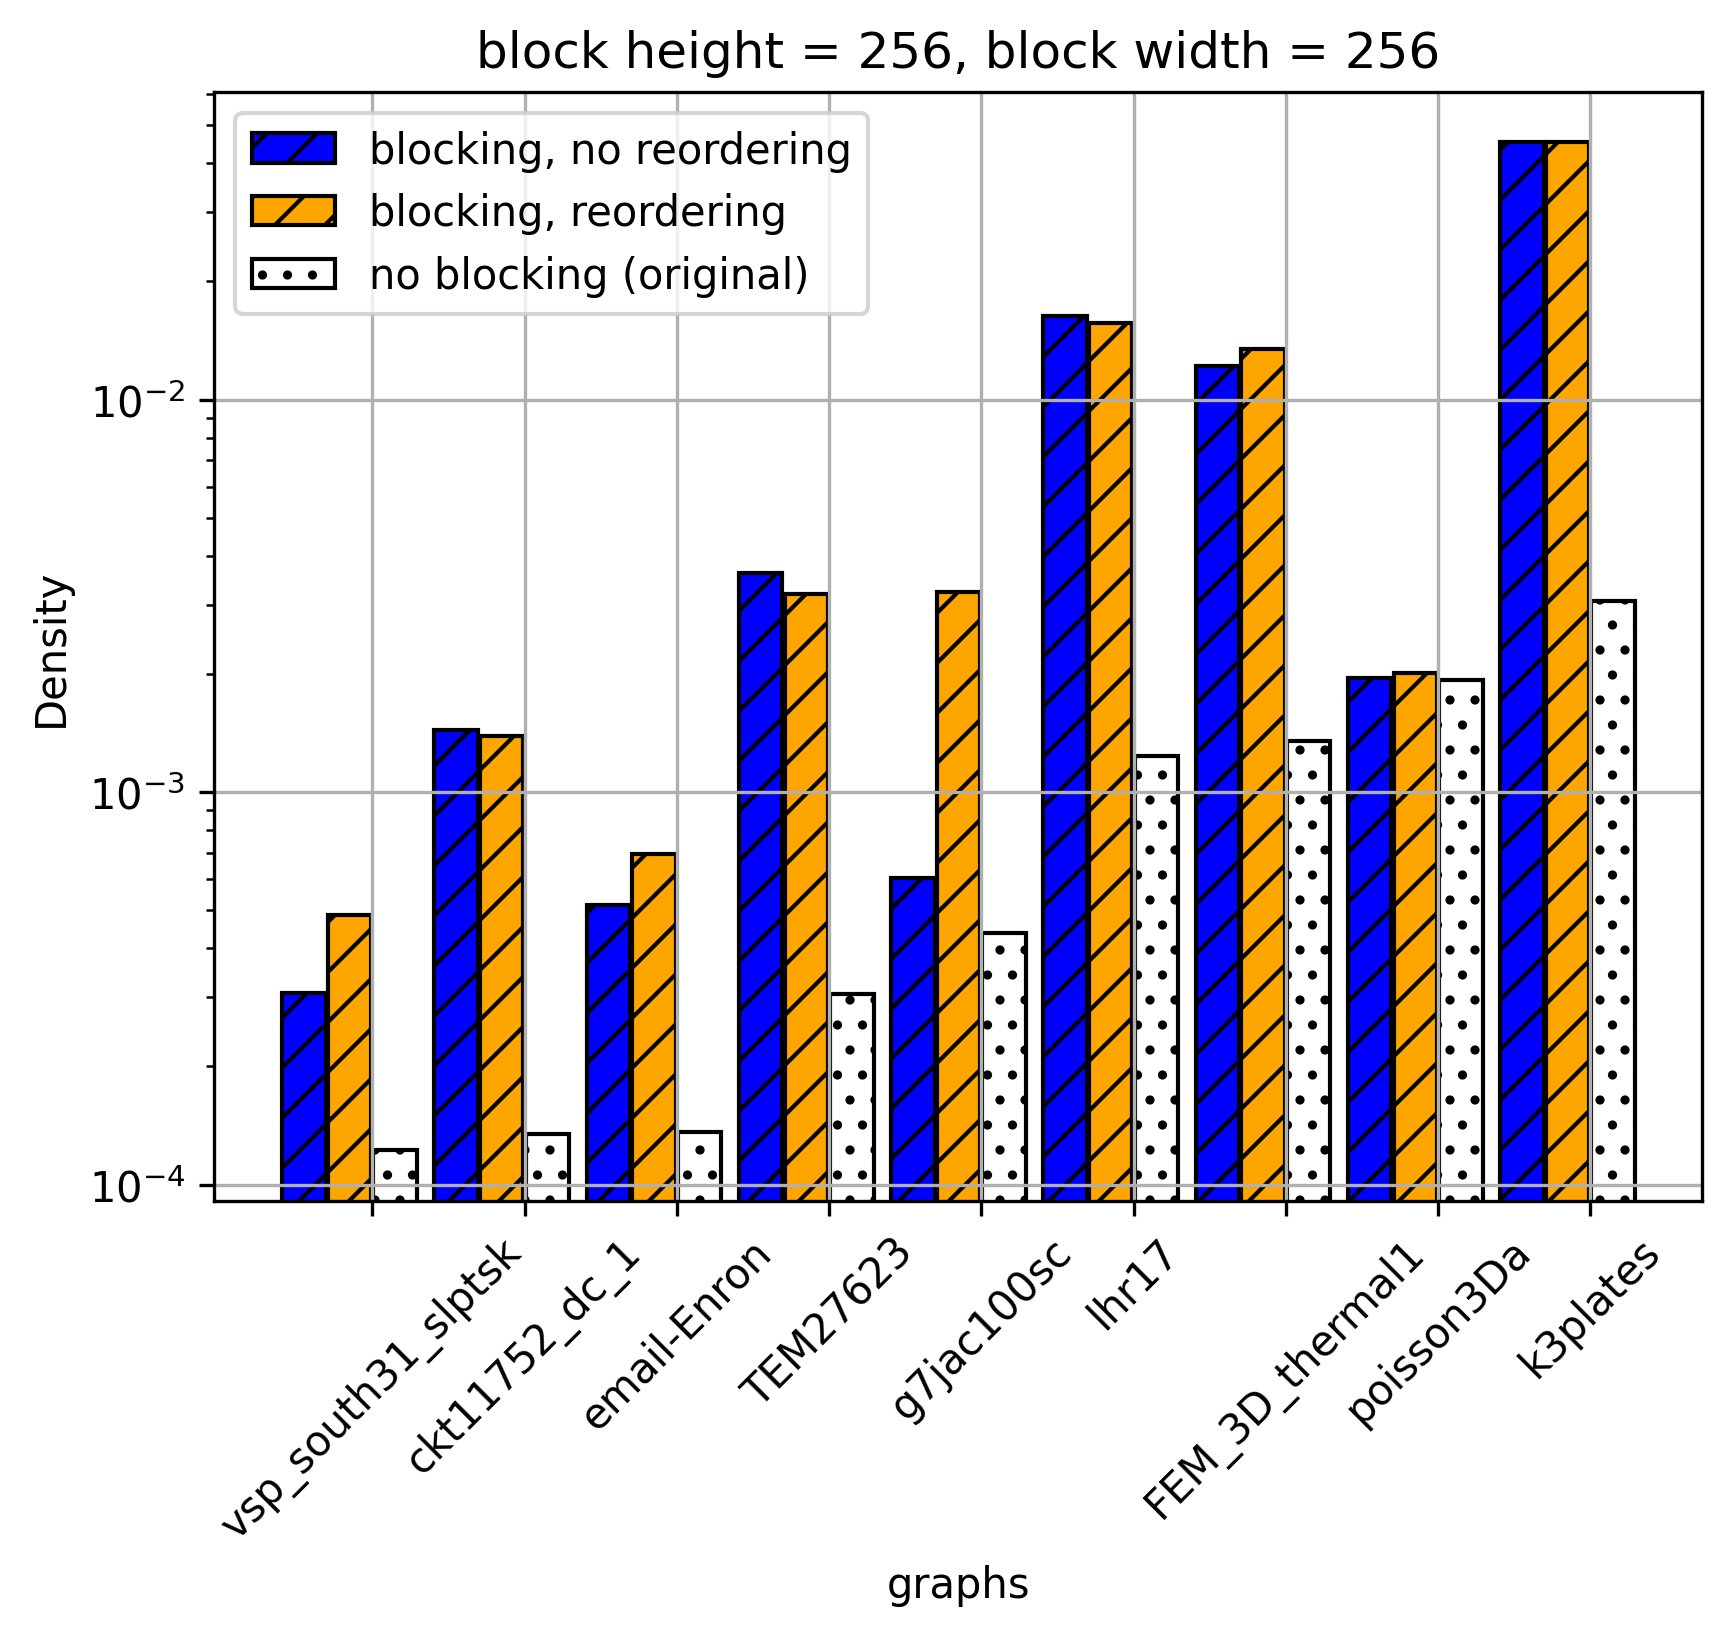
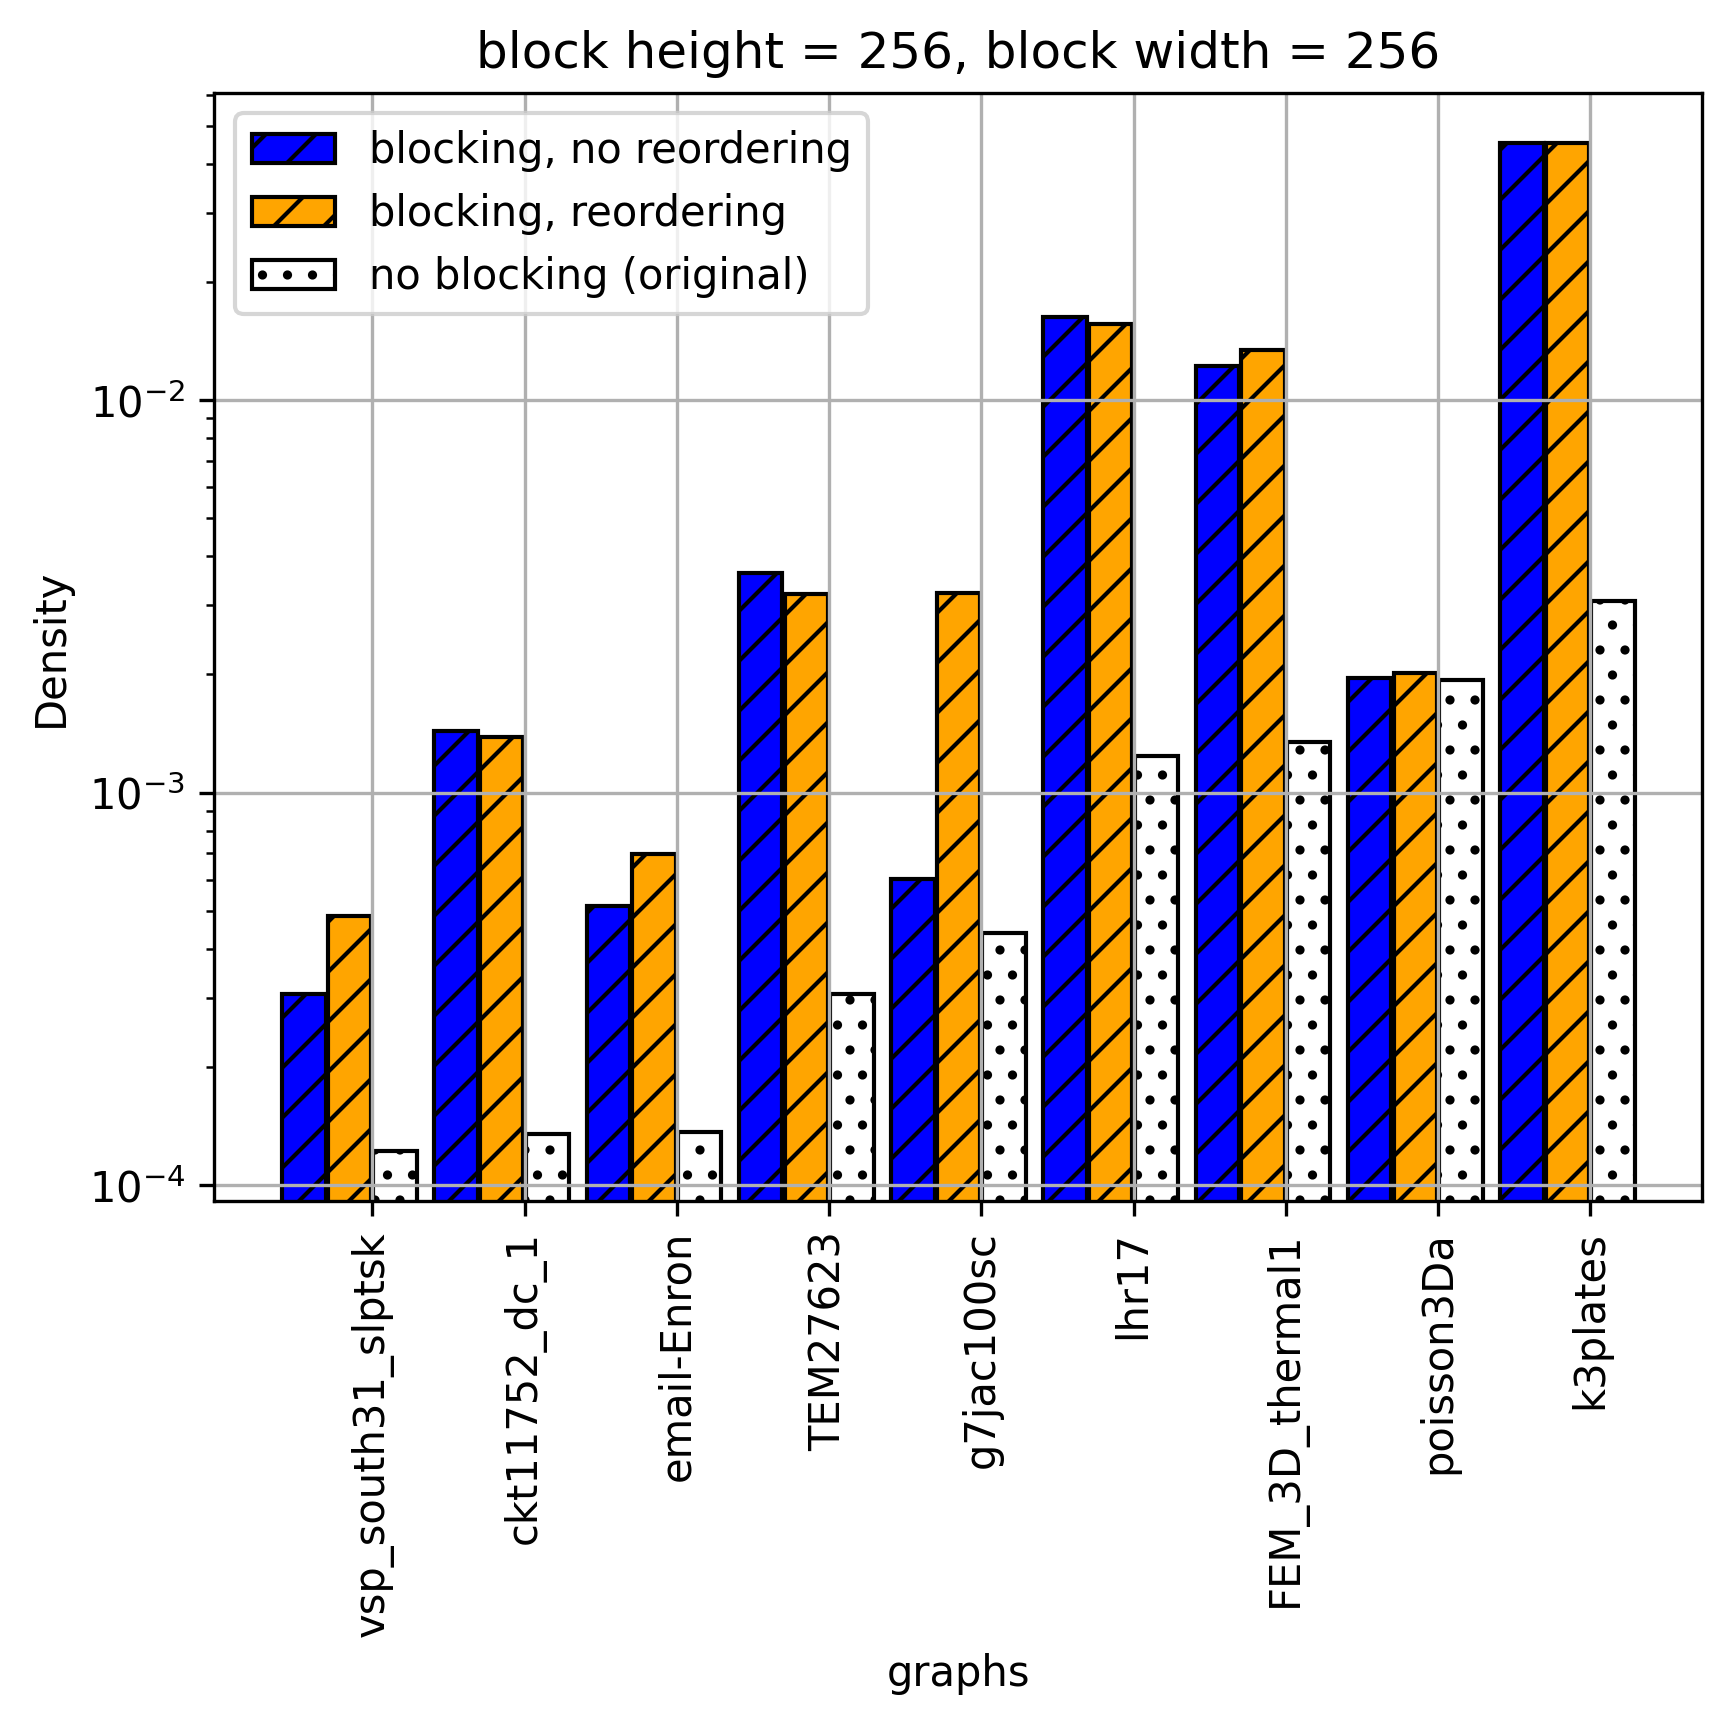
minor fixes

diff --git a/src/scripts/multiplication_barplots.py b/src/scripts/multiplication_barplots.py
@@ -119,14 +119,14 @@ def barplot(x_labels, x_ax_label, ys, y_styles = {} , y_ax_label = "", savename 
 
 
 exps = {}
-exps["VBR-reord"] = (6,5)
 exps["VBR-no-reord"] = (6,2)
+exps["VBR-reord"] = (6,5)
 exps["BELLPACK-no-reord"] = (3,2)
 exps["CSR"] = (2,3)
 exps["GEMM"] = (1,3)
 
 
-def make_barplot(df, image_folder,B_cols, row_block_size, col_block_size):
+def make_barplot(df, image_folder,B_cols, row_block_size, col_block_size, variable = "speed-vs-cusparse"):
     tmp_df = df.loc[(df["col_block_size"]==col_block_size) & (df["row_block_size"] == row_block_size) & (df["b_cols"] == B_cols)]
     matrices_names = [val.split("/")[-1].split(".")[0] for val in tmp_df["matrix"].unique()]
 
@@ -137,13 +137,13 @@ def make_barplot(df, image_folder,B_cols, row_block_size, col_block_size):
     for matrix in tmp_df["matrix"].unique():
         for exp_name in data_lines.keys():
             M_algo, B_algo = exps[exp_name]
-            values = tmp_df.loc[(tmp_df["matrix"] == matrix) & (tmp_df["multiplication_algo"] == M_algo) & (tmp_df["blocking_algo"] == B_algo)]["Speed-vs-cusparse"].values
+            values = tmp_df.loc[(tmp_df["matrix"] == matrix) & (tmp_df["multiplication_algo"] == M_algo) & (tmp_df["blocking_algo"] == B_algo)][variable].values
             if len(values) == 0:
                 data_lines[exp_name].append( 0 )
             else:
                 data_lines[exp_name].append( values[0] )
 
-    savename = f"{image_folder}/SpMM_time_barplot_{row_block_size}_{col_block_size}_{B_cols}"
+    savename = f"{image_folder}/SpMM_barplot_{variable}_{row_block_size}_{col_block_size}_{B_cols}"
 
     styles = [global_exp_dict[exp] for exp in data_lines.keys()]
 
@@ -151,13 +151,13 @@ def make_barplot(df, image_folder,B_cols, row_block_size, col_block_size):
                 x_labels = matrices_names,
                 x_ax_label="graphs",
                 ys=data_lines.values(),
-                y_labels=data_lines.keys(),
                 y_styles = styles,
-                y_ax_label = "Speed-vs-cusparse", 
+                y_ax_label = global_label_dict[variable], 
                 savename = savename)
 
-def make_barplot_best(df, image_folder,B_cols):
+def make_barplot_best(df, image_folder,B_cols, variable = "speed-vs-cusparse"):
     tmp_df = df.loc[df["b_cols"] == B_cols]
+    tmp_df = tmp_df.loc[df["row_block_size"] == df["col_block_size"]]
     tmp_df = tmp_df.loc[tmp_df.groupby(["matrix","blocking_algo","multiplication_algo"])["avg_time_multiply"].idxmin()]
     tmp_df.sort_values(by=['density','matrix'], inplace=True)
     matrices_names = [val.split("/")[-1].split(".")[0] for val in tmp_df["matrix"].unique()]
@@ -167,7 +167,7 @@ def make_barplot_best(df, image_folder,B_cols):
     for matrix in tmp_df["matrix"].unique():
         for exp_name in data_lines.keys():
             M_algo, B_algo = exps[exp_name]
-            values = tmp_df.loc[(tmp_df["matrix"] == matrix) & (tmp_df["multiplication_algo"] == M_algo) & (tmp_df["blocking_algo"] == B_algo)]["Speed-vs-cusparse"].values
+            values = tmp_df.loc[(tmp_df["matrix"] == matrix) & (tmp_df["multiplication_algo"] == M_algo) & (tmp_df["blocking_algo"] == B_algo)][variable].values
             if len(values) == 0:
                 data_lines[exp_name].append( 0 )
             else:
@@ -182,12 +182,12 @@ def make_barplot_best(df, image_folder,B_cols):
                 x_ax_label="graphs",
                 ys=data_lines.values(),
                 y_styles = styles,
-                y_ax_label = "Speed-vs-cusparse", 
+                y_ax_label = global_label_dict[variable], 
                 savename = savename)
 
 
 
-def make_heatmap(df,image_folder,B_cols,exp_name, colormap_variable = "Speed-vs-cusparse"):     
+def make_heatmap(df,image_folder,B_cols,exp_name, colormap_variable = "speed-vs-cusparse"):     
     M_algo, B_algo = exps[exp_name]
     heatmap_df = df[(df["multiplication_algo"]==M_algo) & (df["blocking_algo"]== B_algo) & (df["b_cols"] == B_cols)]
     table = heatmap_df.pivot_table(index="row_block_size", columns="col_block_size", values=colormap_variable, aggfunc='mean')
@@ -221,7 +221,7 @@ df_VBR_no_reord = df[(df["multiplication_algo"] == 6) & (df["blocking_algo"] == 
 df = pd.merge(df,df_VBR_no_reord, how = "left",on = ["matrix","b_cols","row_block_size","col_block_size"], suffixes=('','_VBR_no_reord') )
 
 df["speed-vs-no-reord"] = df["avg_time_multiply_VBR_no_reord"]/df["avg_time_multiply"]
-df["Speed-vs-cusparse"] = df["avg_time_multiply_CSR"]/df["avg_time_multiply"]
+df["speed-vs-cusparse"] = df["avg_time_multiply_CSR"]/df["avg_time_multiply"]
 df["time-per-block"] = df["avg_time_multiply"]/df["VBR_nzblocks_count"]
 df["time-per-area"] = df["avg_time_multiply"]/df["VBR_nzcount"]
 df["time-per-true-nonzero"] = df["avg_time_multiply"]/df["nonzeros"]
@@ -246,7 +246,7 @@ for B_cols in df["b_cols"].unique():
     make_barplot_best(df, image_folder,B_cols)
     for row_block_size in (32,64,128,512,1024):
         for col_block_size in (32,64,128,512,1024):
-            #make_barplot(df, image_folder,B_cols, row_block_size,col_block_size)
+            make_barplot(df, image_folder,B_cols, row_block_size,col_block_size)
             1
 
 print("Making heatmaps")
@@ -254,8 +254,8 @@ for B_cols in df["b_cols"].unique():
         for exp_name in exps:
             try:
                 make_heatmap(df,image_folder,B_cols,exp_name, colormap_variable= "time-per-true-nonzero")
-                make_heatmap(df,image_folder,B_cols,exp_name, colormap_variable= "Speed-vs-cusparse")
-                make_heatmap(df,image_folder,B_cols,exp_name, colormap_variable= "Speed-vs-no-reord")
+                make_heatmap(df,image_folder,B_cols,exp_name, colormap_variable= "speed-vs-cusparse")
+                make_heatmap(df,image_folder,B_cols,exp_name, colormap_variable= "speed-vs-no-reord")
                 make_heatmap(df,image_folder,B_cols,exp_name, colormap_variable= "time-per-block")
                 make_heatmap(df,image_folder,B_cols,exp_name, colormap_variable= "time-per-area")
             except: 

diff --git a/src/cuda/cuda_utilities.cpp b/src/cuda/cuda_utilities.cpp
@@ -362,7 +362,8 @@ void cublas_fixed_blocks_multiply(const VBR& vbmatA, DataT* B, int B_cols, DataT
     cudaEventRecord(start, 0);
 
     //creates streams. Each block rows is assigned a different stream.
-
+    DataT* d_C_block;
+    intT jb;
     cublasSetStream(handle, streams[0]);               //each stream handles at most max_blocks_per_stream of block_rows    
     //loop through all blocks
     for(intT nzs = 0; nzs < max_blocks_in_row; nzs++ )      //loop horizontally through block rows
@@ -370,30 +371,29 @@ void cublas_fixed_blocks_multiply(const VBR& vbmatA, DataT* B, int B_cols, DataT
         for (intT ib = 0; ib < vbmatA.block_rows; ib++)
         {
             if (nzs >= vbmatA.nzcount[ib]) continue;
-            intT jb = *(jab_positions[ib] + nzs);
+            jb = *(jab_positions[ib] + nzs);
             const DataT* d_B_block = d_B + vbmatA.block_col_size*jb;    //access the vertical block of B that is going to be multiplied with blocks of A in block-row ib
 	        const DataT* d_A_block = mab_positions[ib] + nzs*block_area;           //access the block on d_A.
-            DataT* d_C_block = d_C + vbmatA.row_part[ib];                            //access the block on d_C.
+            d_C_block = d_C + vbmatA.row_part[ib];                            //access the block on d_C.
 
-            int k = vbmatA.block_col_size, m = B_cols, n = row_block_size;
-            int lda = row_block_size, ldb = B_rows, ldc = C_rows;
+//            int k = vbmatA.block_col_size, m = B_cols, n = row_block_size;
     
             cublasSetStream(handle, streams[ib%n_streams]);               //each stream handles at most max_blocks_per_stream of block_rows    
             //multiply the blocks, store result in d_C_block
             checkCudaErrors(
                 cublasGemmEx(
                     handle, CUBLAS_OP_N, CUBLAS_OP_N,
-                    m,n,k,                                               //m, n, k <-- block_A: m*k   block_B: k*n   block_C: m*n
+                    B_cols,row_block_size,vbmatA.block_col_size,                                               //m, n, k <-- block_A: m*k   block_B: k*n   block_C: m*n
                     &alpha,
                     d_A_block,                                          // blockA device pointer,
                     data_type_AB,                                       // blockA datatype
-                    lda,                                      // blockA leading dimension
+                    row_block_size,                                      // blockA leading dimension
                     d_B_block,                                          // blockB device pointer
                     data_type_AB,                                       // blockB datatype
-                    ldb,                                             // B leading dimension
+                    B_rows,                                             // B leading dimension
                     &beta,
                     d_C_block, data_type_C,                             // blockC device pointer, blockC type
-                    ldc,                                             // C leading dimension
+                    C_rows,                                             // C leading dimension
                     compute_type,                                       // compute_type
                     cuda_algo)
             );                                       

diff --git a/src/scripts/blocking_barplots.py b/src/scripts/blocking_barplots.py
@@ -20,7 +20,7 @@ label_dict = {
     "block_density" : "Blocked density",
     "density" : "Original density",
     "dense_amp" : "Density amplification (against unblocked)",
-    "relative_dense_amp" : "Density amplification (against natural blocking)",
+    "relative-dense-amp" : "Density amplification (against natural blocking)",
     "block ratio": "Shape (height / width)"
 }
 
@@ -91,7 +91,7 @@ def barplot(x_labels, x_ax_label, ys, y_labels, y_styles, y_ax_label, yscale = "
     plt.yscale(yscale)
     plt.grid("both")
     plt.title(f"block height = {row_block_size}, block width = {col_block_size}")
-    plt.xticks(range(len(x_labels)), x_labels, rotation=45)
+    plt.xticks(range(len(x_labels)), x_labels, rotation=90)
     plt.savefig(savename + ".png",  bbox_inches='tight', dpi = 300)
     plt.close()    
 
@@ -118,6 +118,13 @@ df["block_density"] = df["nonzeros"].values/df["VBR_nzcount"].values
 df["dense_amp"] = df["block_density"].values/df["density"].values
 df["block_area"] = df["row_block_size"].values*df["col_block_size"].values
 df["block ratio"] = df["row_block_size"].values/df["col_block_size"].values
+
+
+df_VBR_no_reord = df[df["blocking_algo"] == 2][["matrix","col_block_size","row_block_size","dense_amp"]]
+df = pd.merge(df,df_VBR_no_reord, how = "left",on = ["matrix","row_block_size","col_block_size"], suffixes=('','_VBR_no_reord') )
+df["relative-dense-amp"] = df["dense_amp_VBR_no_reord"]/df["dense_amp"]
+
+
 df.sort_values(by=['density','matrix'], inplace=True)
 
 #PREPARE HEATMAP FOR ALL BLOCK-SIZES
@@ -169,7 +176,7 @@ for blocking_algo in (2,5):
 
 
 x_var = "density"
-y_var = "relative_dense_amp"
+y_var = "relative-dense-amp"
 for row_block_size in (32,64,128,256,512,1024):
     for col_block_size in (32,64,128,256,512,1024):
 #        try:
